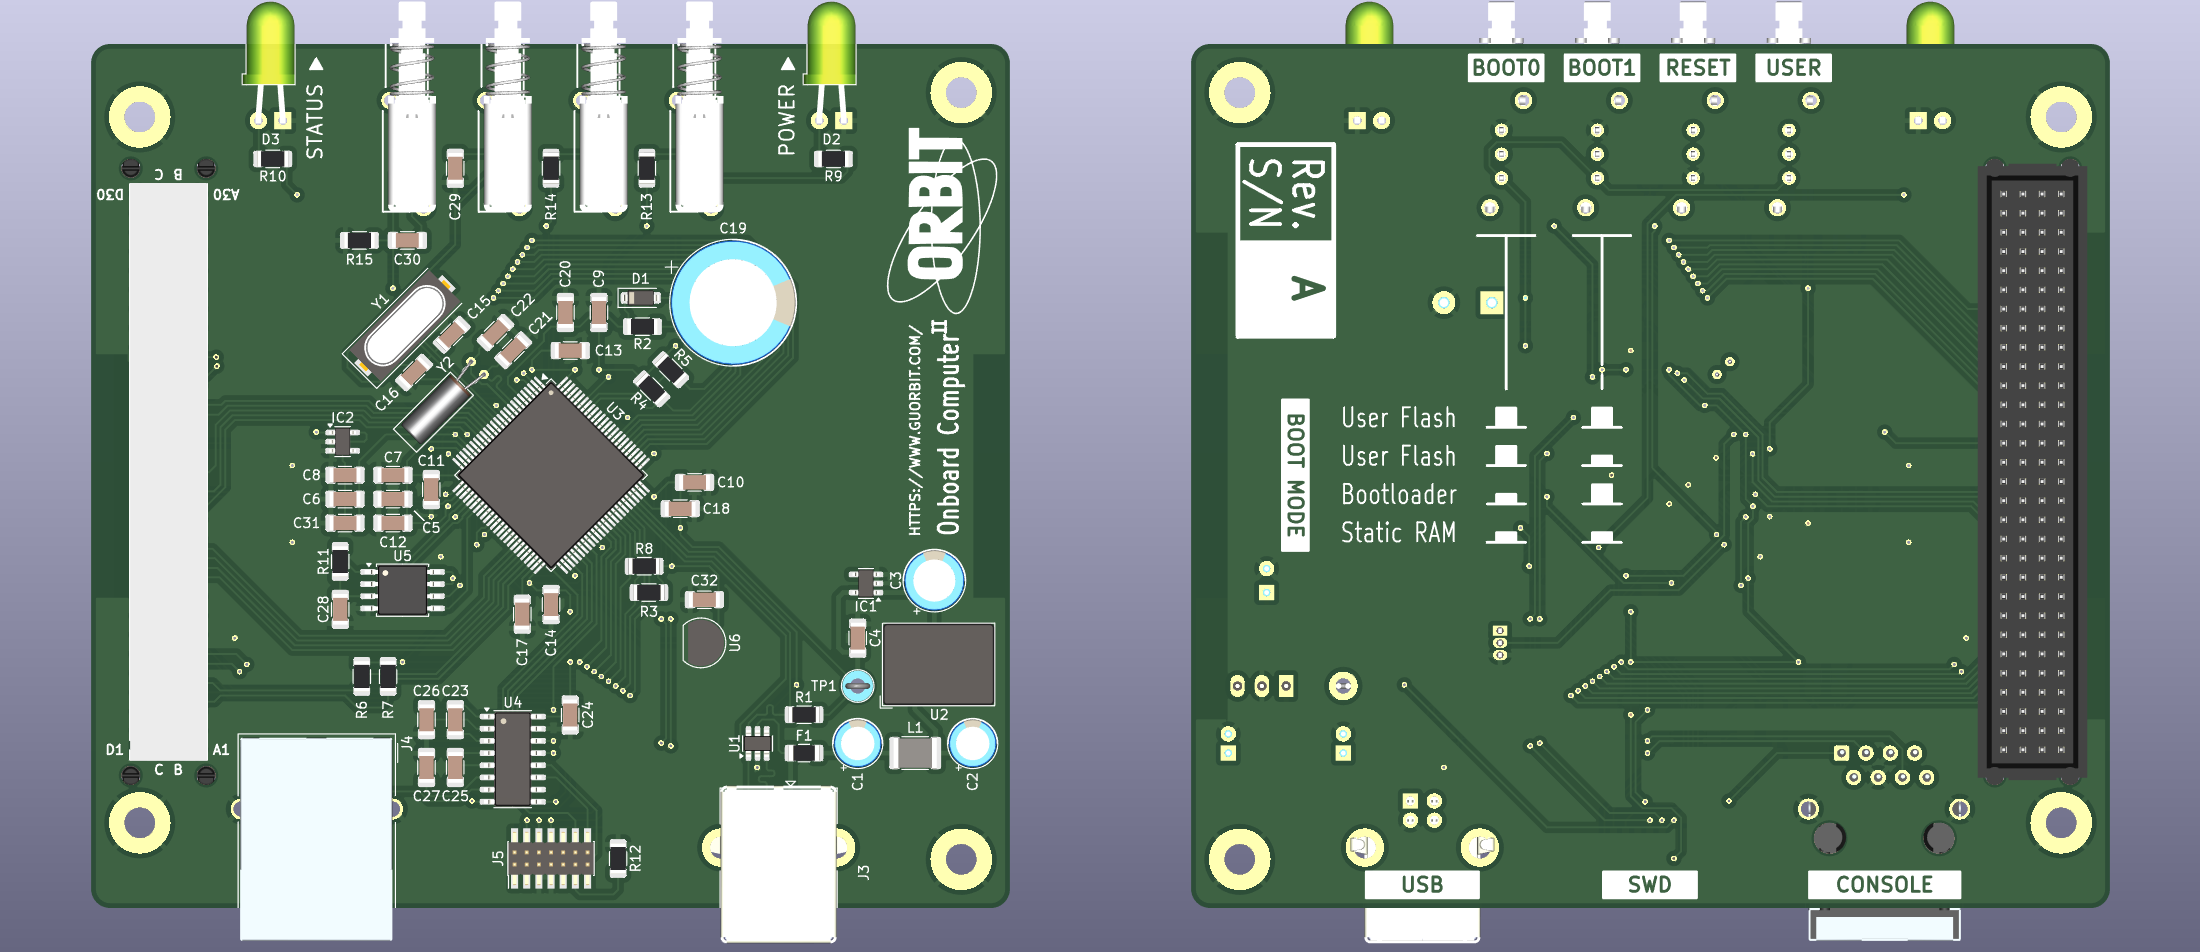
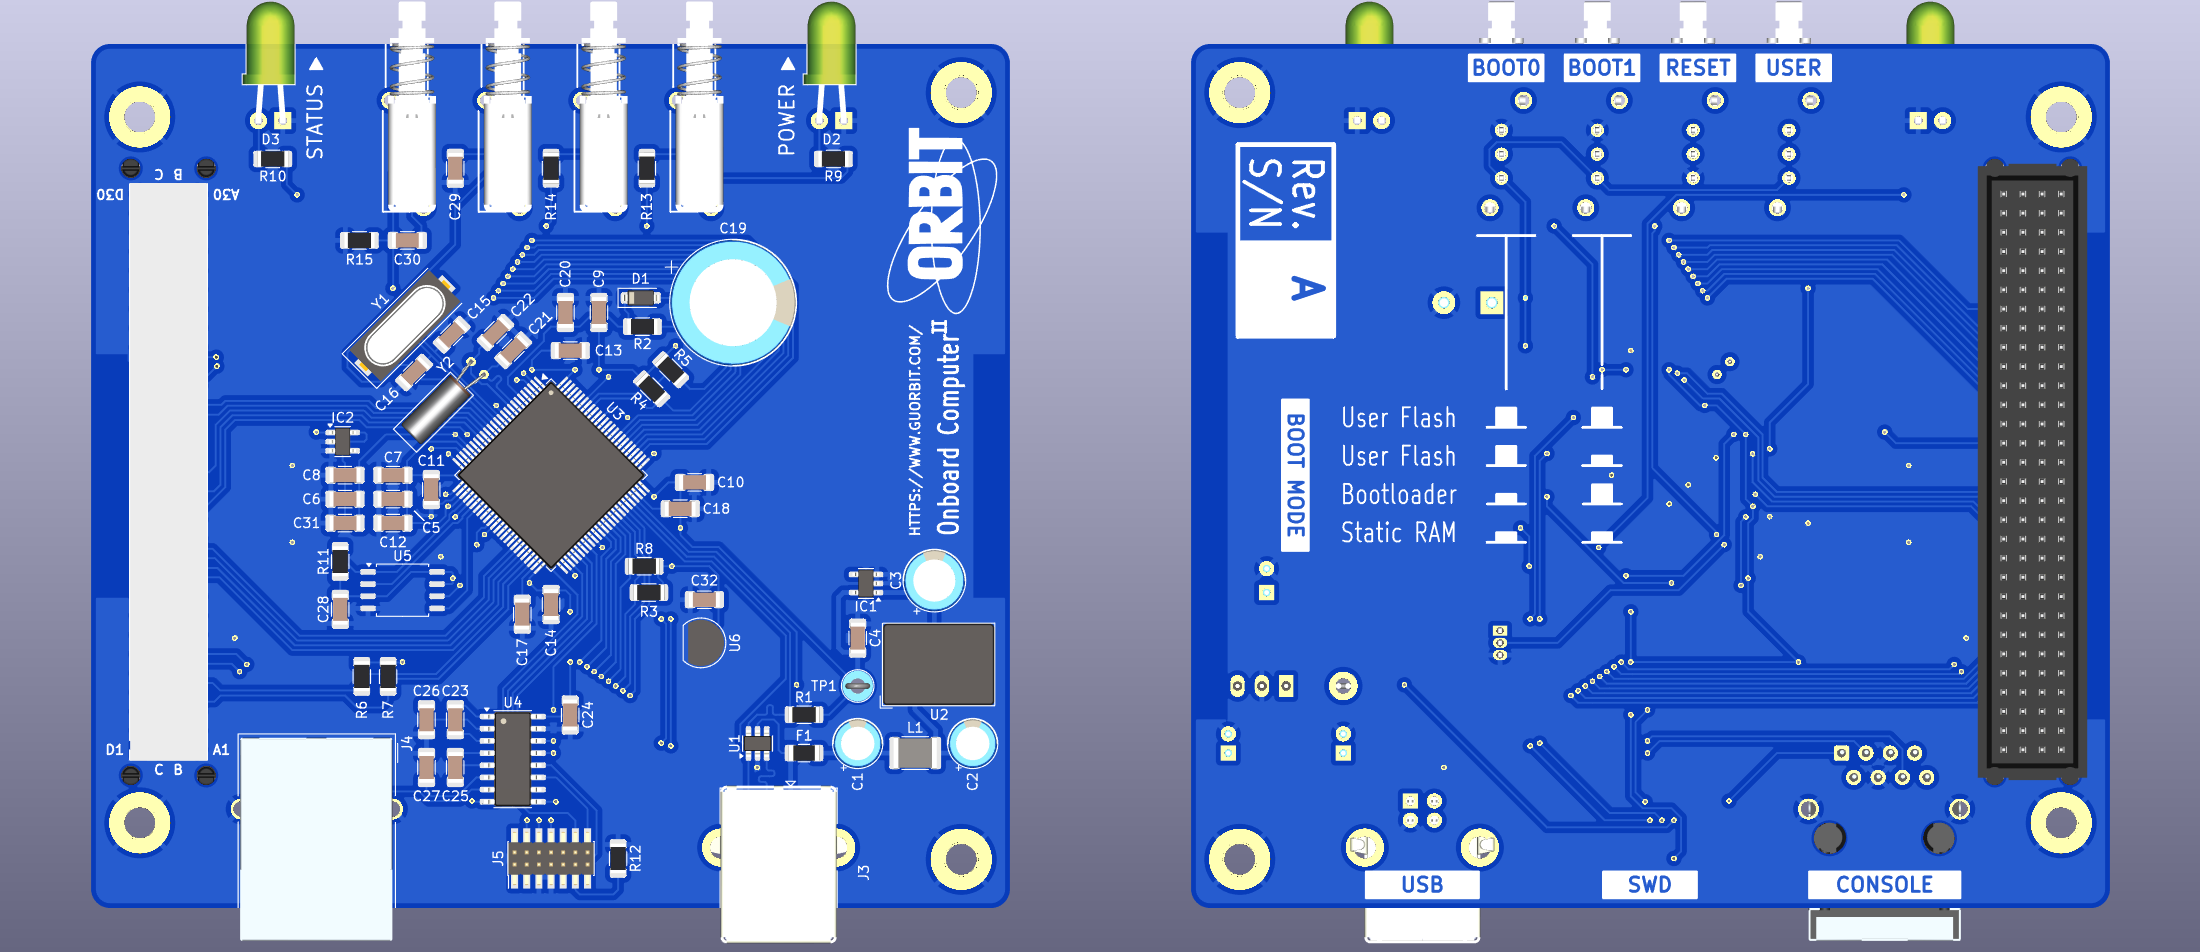
make the pcb bloo

diff --git a/README.md b/README.md
@@ -26,6 +26,5 @@ Available under the [CAD](/CAD) directory in STEP and FreeCAD formats
 
 ## Next Revision TODOs
 
-- [ ] Change R9, R10 to 330ohm so the LED is not so dim
 - [ ] Replace HSE, LSE crystals with TCXO for precision
 - [ ] Use another LTC4411 to protect the SWD port
